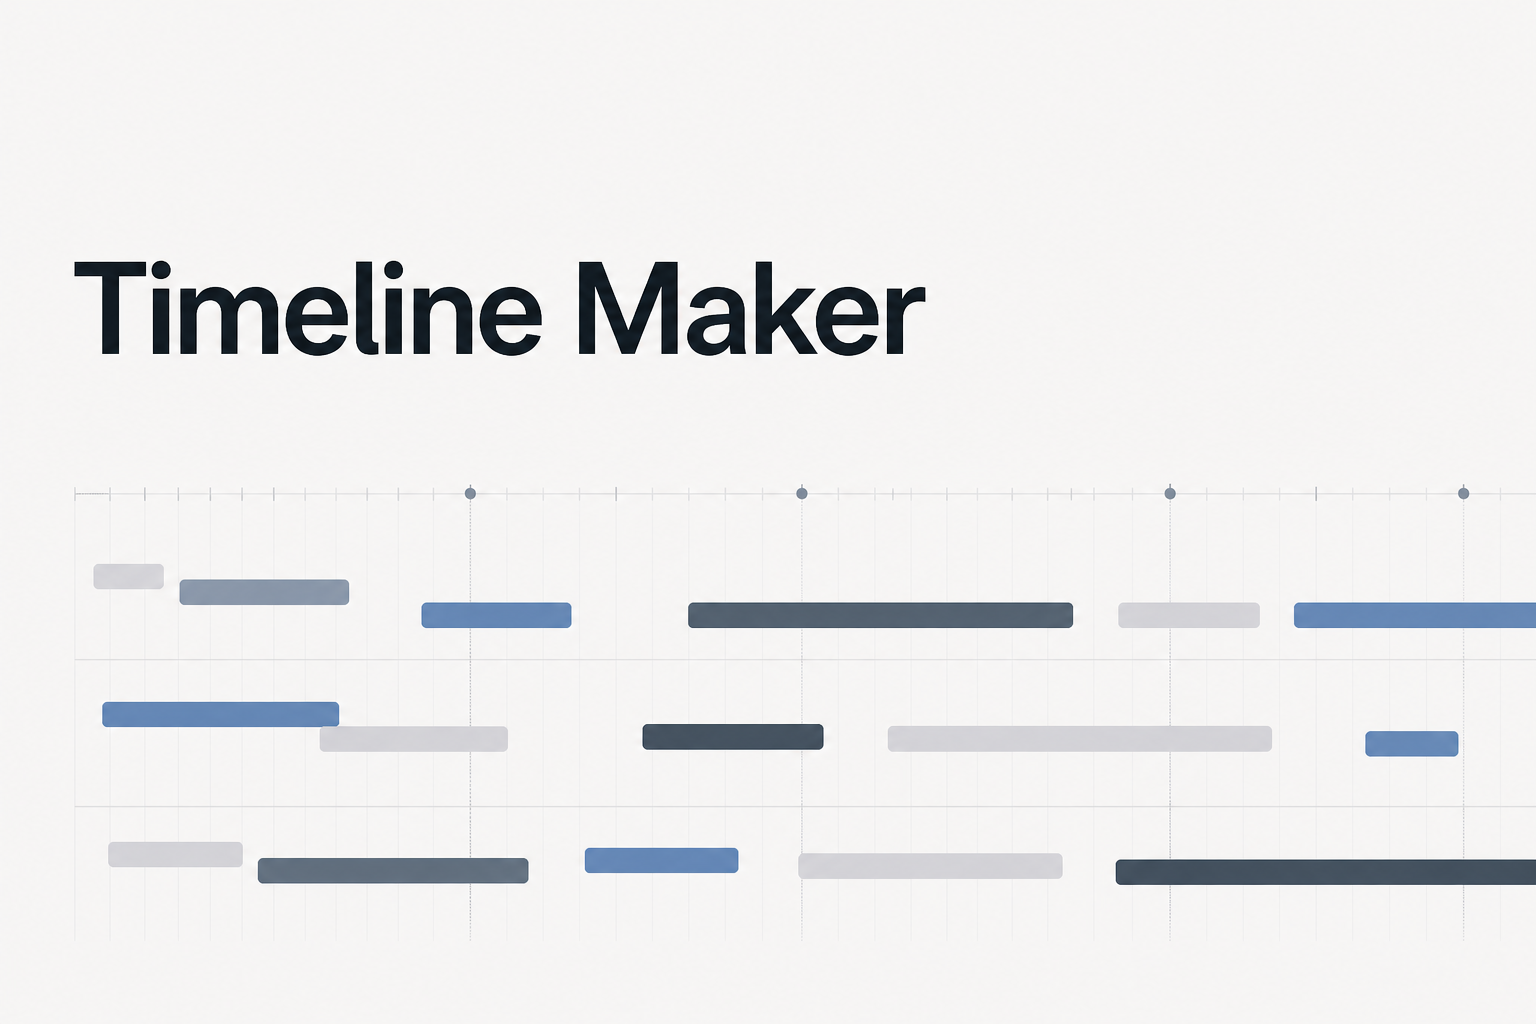
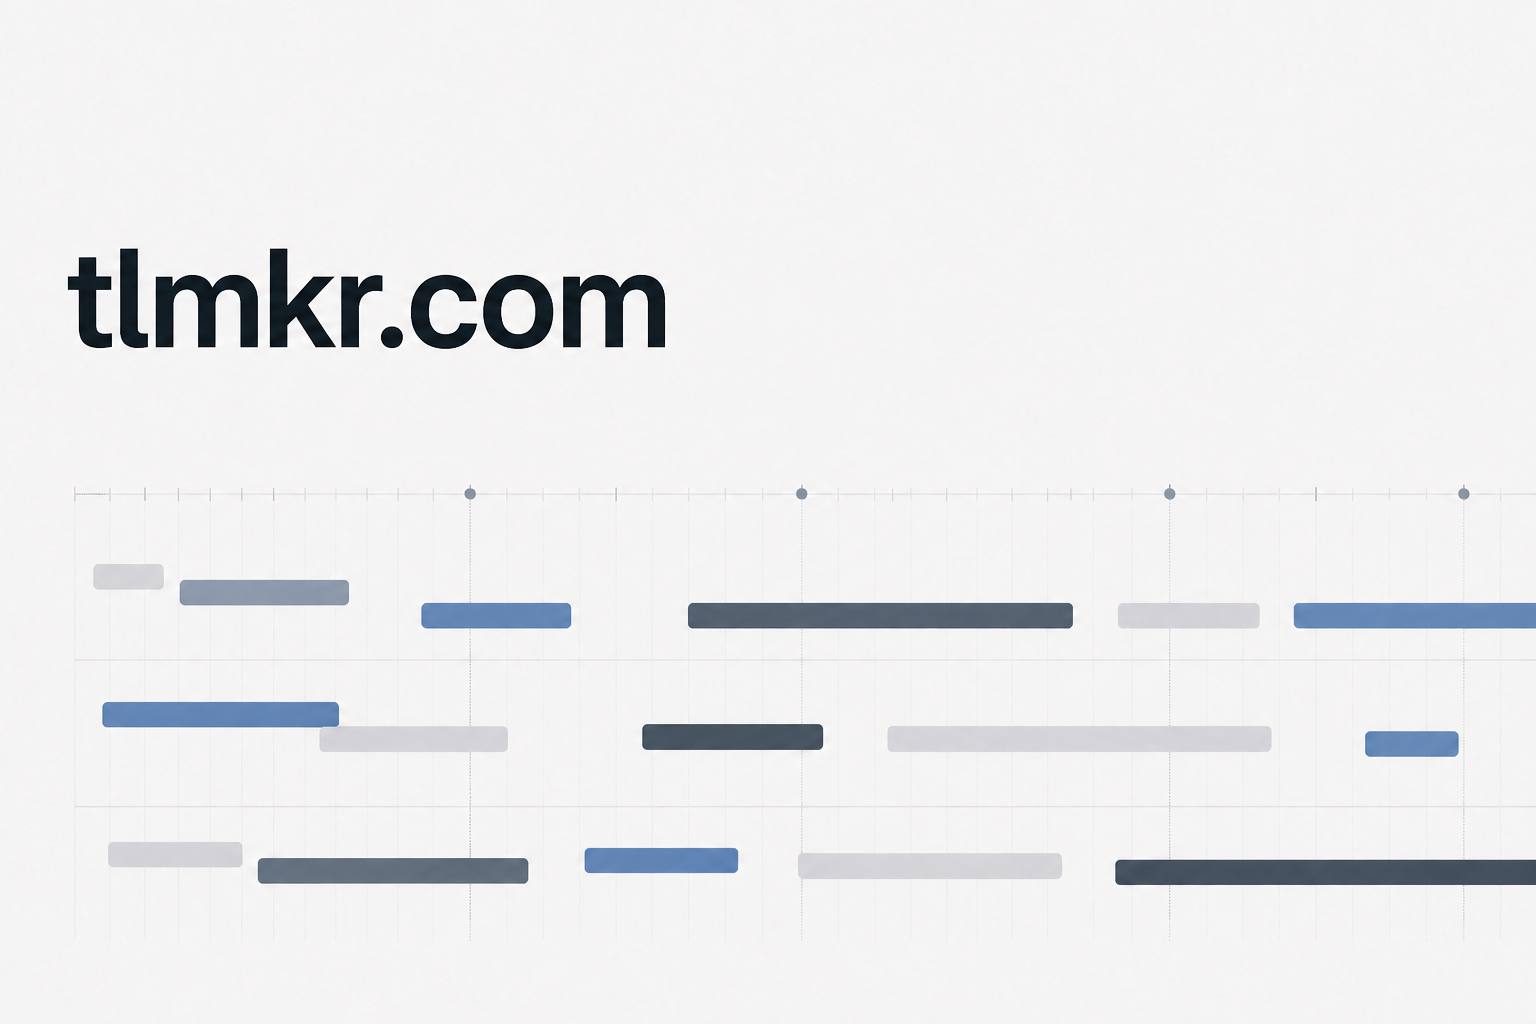
Rebrand as tlmkr.com

Changed region(s): [[0.0312, 0.25, 0.625, 0.3438]]

diff --git a/src/routes/__root.tsx b/src/routes/__root.tsx
@@ -31,14 +31,14 @@ export const Route = createRootRoute({
           content: 'width=device-width, initial-scale=1',
         },
         {
-          title: 'Timeline Maker',
+          title: 'tlmkr.com',
         },
         {
           name: 'description',
           content: description,
         },
         { property: 'og:type', content: 'website' },
-        { property: 'og:title', content: 'Timeline Maker' },
+        { property: 'og:title', content: 'tlmkr.com' },
         { property: 'og:description', content: description },
         ...(imageUrl
           ? [
@@ -46,7 +46,7 @@ export const Route = createRootRoute({
               { property: 'og:image:width', content: '1536' },
               { property: 'og:image:height', content: '1024' },
               { name: 'twitter:card', content: 'summary_large_image' },
-              { name: 'twitter:title', content: 'Timeline Maker' },
+              { name: 'twitter:title', content: 'tlmkr.com' },
               { name: 'twitter:description', content: description },
               { name: 'twitter:image', content: imageUrl },
             ]

diff --git a/src/features/timeline/TimelineApp.tsx b/src/features/timeline/TimelineApp.tsx
@@ -308,7 +308,7 @@ export function TimelineApp({
             className="flex shrink-0 items-center gap-2 text-sm font-semibold tracking-tight"
           >
             <IconTimeline className="size-4" />
-            <span className="hidden sm:inline">Timeline Maker</span>
+            <span className="hidden sm:inline">tlmkr.com</span>
           </a>
           <div className="ml-auto flex min-w-0 items-center gap-2">
             {timelines.length > 0 ? (

diff --git a/README.md b/README.md
@@ -1,8 +1,8 @@
-# Timeline Maker
+# tlmkr.com
 
 A simple, private timeline editor that runs entirely in your browser.
 
-**[Open Timeline Maker](https://timeline.odeschenes.dev/)**
+**[Open tlmkr.com](https://tlmkr.com/)**
 
 Your timelines stay in your browser—no account, cloud sync, or backend database.
 
